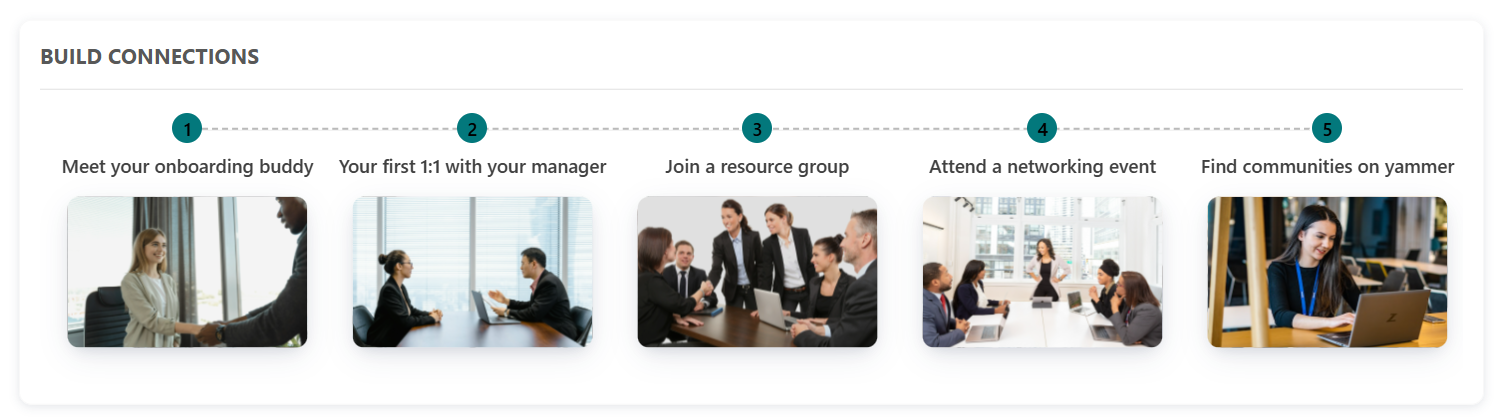
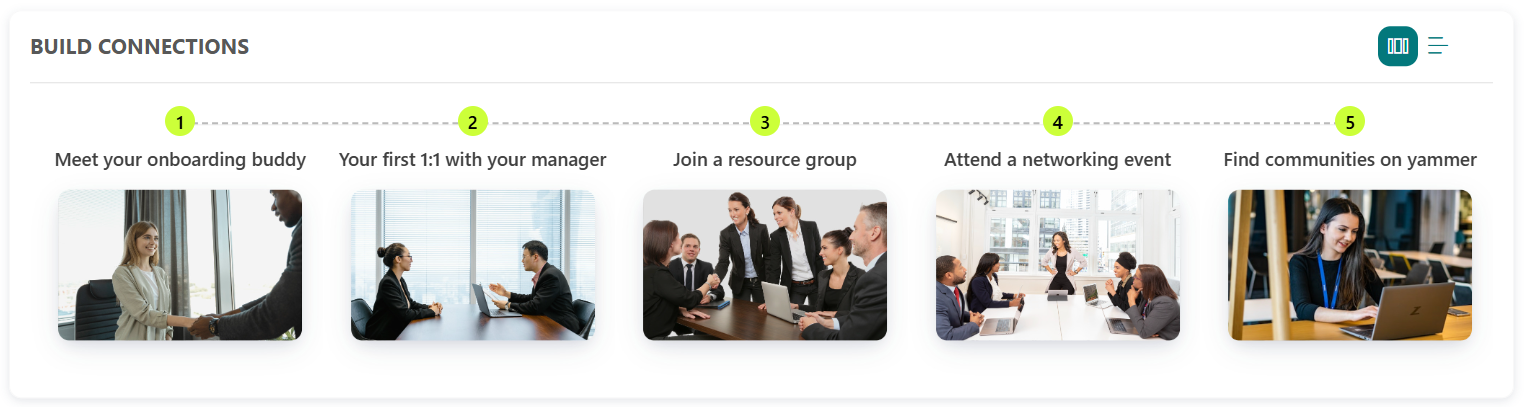
adding employee onboarding changes

diff --git a/spd-documentation/docs/employee-onboarding/installation.md b/spd-documentation/docs/employee-onboarding/installation.md
@@ -33,14 +33,16 @@ sidebar_position: 2
 
    ![](assets/adminPanel.png)
 
-2. Click the icon to open the Employee Onboarding Logo Settings Panel.
+2. Click the icon to open the Employee Onboarding extension side panel.
 
    ![](assets/adminSidebar.png)
 
 3. In the panel:
 
    - Select the **"Home Page"** template
+   - Check the checkbox of **Full Site Setup**
    - Click the **Create Page** button
+
 
      ![](assets/homepageSidebar.png)
 
@@ -52,13 +54,19 @@ sidebar_position: 2
 - `FaqOnboarding` list
 - `Training Video` library
 - `Important Documents` library
-  (_Mock items are added automatically for QuickLinks, FaqOnboarding._)
+  (_Mock items are added automatically for every list._)
 
 5. After the items are created, the site page will **refresh automatically**, and it will continue to creating page and adding webparts.
 6. Once setup is complete, a button will appear to open the newly created homepage. Click it to view the result.
 
    ![](assets/homeDialog.png)
 
+7. Click the extension icon again and repeat the procedure: select the **Home Page**, check the **Full Site Setup** checkbox, and click the **Create Page** button. This will open a dialog box with the following details:
+
+   ![](assets/existingUser.png)
+
+- Clicking **Yes** will delete the existing data from the lists and libraries in the site, and recreate them with mock data.
+- Clicking **No** will create a new page and add only the web parts, along with mock data, without affecting existing lists or libraries.
 ---
 
 ## 🔑 Activating a License Key
@@ -70,11 +78,11 @@ sidebar_position: 2
 | **Step** | **Action**                 | **Details / Notes**                                                                                                                                                                                                                                                                                           |
 | -------- | -------------------------- | ------------------------------------------------------------------------------------------------------------------------------------------------------------------------------------------------------------------------------------------------------------------------------------------------------------- |
 | 1        | Go to the app page         | Navigate to the SharePoint page where the Employee Onboarding was installed.                                                                                                                                                                                                                                  |
-| 2        | Open activation panel      | - If the trial**has expired**, you'll see an **"Activate"** button on the app — click it.![](assets/homeLicense.png) - If the trial **is still active** and you want to activate it, edit the page → open the **Web Part property panel** → click **"Activate License"**. ![](assets/homeLicenseActivate.png) |
-| 3        | Launch activation dialog   | A dialog box will appear prompting for a key.![](assets/licenseKey.png)                                                                                                                                                                                                                                       |
-| 4        | Click **Get Key**          | In the license dialog, click**Get Key** — this will take you to the payment page in a new tab.                                                                                                                                                                                                                |
+| 2        | Open activation panel      | - If the trial**has expired**, you'll see an **"Activate"** button on the app — click it.![](assets/homeLicense.png)  - If the trial **is still active** and you want to activate it, edit the page → open the **Web Part property panel** → click **"Activate License"**. ![](assets/homeLicenseActivate.png) |
+| 3        | Launch activation dialog   | A dialog box will appear prompting for a key.![](assets/licenseKey.png)                                                                                                                                                                                                                                    |
+| 4        | Click **Get Key**          | In the license dialog, click **Get Key** — this will take you to the payment page in a new tab.                                                                                                                                                                                                                |
 | 5        | Purchase the license       | Complete the payment process. Once done, you’ll receive a license key via email. Be sure to check your spam/junk folder if you don't see it.                                                                                                                                                                  |
-| 6        | Enter and activate the key | Go back to the SharePoint page, paste the license key into the dialog box, and**Activate** with license key for complete activation.                                                                                                                                                                          |
+| 6        | Enter and activate the key | Go back to the SharePoint page, paste the license key into the dialog box, and **Activate** with license key for complete activation.                                                                                                                                                                          |
 
 ✅ **You're all set! Employee Onboarding is now fully activated**
 
@@ -94,9 +102,10 @@ The following resources are provisioned upon applying the Home template:
 > Mock data is also auto-added for:
 >
 > - Quick Links
+> - Team Carousel(Current User data)
 > - Faq Onboarding
 
-> **No manual configuration required after clicking the Apply template button.**
+> **No manual configuration required after clicking the Create Page button.**
 
 ---
 
@@ -106,11 +115,11 @@ The following resources are provisioned upon applying the Home template:
 
 | **Webpart**                     | **Description**                                                                                                                                                                                                                                                                  |
 | ------------------------------- | -------------------------------------------------------------------------------------------------------------------------------------------------------------------------------------------------------------------------------------------------------------------------------- |
-| **👋 Announcement**             | -**Personalized Announcement**: Greets new users with name and time, adding a personal touch to the digital workplace.                                                                                                                                                           |
-| **🔗 Quick Links**              | - **Quick Reference Panel**: Offers shortcuts to essential onboarding and operational resources.<br /> - **Operational Essentials**: Connects users with vital tools for HR, Finance, Company Policies and more.                                                                 |
+| **👋 Announcement**             | -**Personalized Announcement**: Greets new users with name and time, adding a personal touch to the digital workplace. |
+| **🔗 Quick Links**              | - **Quick Reference Panel**: Offers shortcuts to essential onboarding and operational resources.<br /> - **Operational Essentials**: Connects users with vital tools for HR, Finance, Company Policies and more.  |
 | **💬 Welcome Message from CEO** | - **Leadership Introduction**: A message from the CEO that outlines strategic priorities and encourages unity across the organization.<br /> - **Vision-Driven Address**: Highlights company goals, cultural values, and the importance of teamwork from the CEO’s perspective.  |
-| **👥 Meet The Team**            | -**Team Overview Panel**: Presents key team members with roles and communication options to foster accessibility.<br /> - **Department Contacts**: Empowers collaboration by making it easy to identify and reach department representatives.                                    |
-| **🌐 Build Connections**        | -**Guided Social Interaction**: Helps new employees build meaningful connections through structured interactions and touchpoints.<br /> - **Scheduled Interaction Touchpoints**: Strategically placed activities that enhance familiarity with team members and company culture. |
+| **👥 Meet The Team**            | - **Team Overview Panel**: Presents key team members with roles and communication options to foster accessibility.<br /> - **Department Contacts**: Empowers collaboration by making it easy to identify and reach department representatives.   |
+| **🌐 Build Connections**        | - **Guided Social Interaction**: Helps new employees build meaningful connections through structured interactions and touchpoints.<br /> - **Scheduled Interaction Touchpoints**: Strategically placed activities that enhance familiarity with team members and company culture. |
 | **📽 Training Videos**          | - **Interactive Video Library**: Offers visual learning modules to reinforce company procedures and best practices.<br /> - **Guided Orientation Videos**: Walkthroughs that introduce employees to platforms, culture, and operational essentials.                              |
 | **🗂 Important Documents**      | - **Centralized Document Hub**:Quick access to key company documents including policies, reports, and reference files.<br /> - **Document Quick View**: Displays edit history to ensure employees are referencing the most current version.                                      |
 | **❓FAQs**                      | - **Self-Help Portal**: Easily accessible answers to frequent employee or customer inquiries.<br /> - **Smart Navigation**: Expandable accordion format lets users drill down into topics with ease.                                                                             |
@@ -135,7 +144,7 @@ Follow the steps below to uninstall the **Employee Onboarding by SharePoint Desi
 
 ### 🗃 Issue: Lists/Library Not Created
 
-**Solution**: Verify that the **"Apply template"** button was clicked after adding the **"Onboarding Employee Setup"** web part. If the lists/Library are still not created, delete the page and reapply the design.
+**Solution**: Verify that the **"Create Page"** button was clicked after adding the **"Onboarding Employee Setup"**. If the lists/Library are still not created, delete the page and reapply the design.
 
 ### 📝 Issue: Missing Demo Items
 

diff --git a/spd-documentation/docs/employee-onboarding/configuration.md b/spd-documentation/docs/employee-onboarding/configuration.md
@@ -32,7 +32,7 @@ Configuration options are grouped under intuitive sections:
 | **Welcome Text**     | Textbox      | WELCOME                | Displays a greeting with the current user's first name, above the date/time. |
 | **Show Full Name**   | Toggle       | Off                    | If enabled show full name orelse show first name.                            |
 | **Date Format**      | Dropdown     | Thursday 19 June, 2025 | Select which date format required for Announcement.                          |
-| **Time Format**      | Dropdown     | 12:50 PM               | Select which time format reqyired for Announcement.                          |
+| **Time Format**      | Dropdown     | 12:50 PM               | Select which time format required for Announcement.                          |
 | **Text Color**       | Color Picker | #000000                | Customizes the text color for Announcement.                                  |
 | **Background Color** | Color Picker | #CCFF39                | Customizes the background color for Announcement.                            |
 
@@ -63,7 +63,7 @@ Configuration options are grouped under intuitive sections:
 
 ### 📋 Details
 
-- **Essential Resources**: Provide immedia4e access to frequently used tools and documents.
+- **Essential Resources**: Provide immediate access to frequently used tools and documents.
 - **Minimalist Icons**: Use clean icons and labels for straightforward navigation.
 
 ![Quick Links](assets/QuickLinks.png)
@@ -161,6 +161,7 @@ This web part offers flexible configuration grouped into the following categorie
 - Customize the **Height** to get better UI and it can customized from 200px to 700px.
 - ToolTip has added for description content & Webpart Title too.
 - On Hover of the Person it will display the team card contains all details about profile.
+- On clicking the **Read More** button on the UI, a dialog box will open at the center of the page displaying the complete content in detail.
 
 ---
 
@@ -216,6 +217,7 @@ For the **Meet The Team** webpart, create a list with the following columns.
 - Similarly, if the **Icon** column is filled, that icon will be shown in the UI. If left blank, the profile picture will be automatically retrieved from the Team Person's user profile.
 - The **Name** and **Profile Picture** will be automatically retrieved based on the selected Team Person.
 - On Hover of the Person it will display the team card contains all details about profile.
+- Initial mock data has been added for the current user.
 
 ---
 
@@ -265,8 +267,9 @@ For the **Build Connections** webpart, create a list with the following columns.
 
 | Field                              | Type         | Default / Example | Description                                          |
 | ---------------------------------- | ------------ | ----------------- | ---------------------------------------------------- |
+| **Layout Type**                    | Dropdown     | Carousel          | Controls how content is visually displayed.          |
 | **Items to display**               | Slider       | 5                 | Customize the items to display in build connections. |
-| **Background Color of the Circle** | Color Picker | #CCFF39           | Customize the background color of the circle.        |
+| **Background Color of the Circle** | Color Picker | #CCFF39         | Customize the background color of the circle.        |
 | **Text Color of the Circle**       | Color Picker | #0000000          | Customize the Text Color of the circle.              |
 
 ---
@@ -292,6 +295,16 @@ For the **Build Connections** webpart, create a list with the following columns.
 ![TrainingVideo](assets/TrainingVideo.png)
 
 ---
+
+### List Config
+
+For the **Training Video** webpart, create a library with the following columns.
+
+#### 📋 Required Columns
+
+| 🏷 Column Name (Case Sensitive) | 🔣 Column Type | Column Value                    |
+| ------------------------------- | -------------- | ------------------------------- |
+| **TargetWindow**                | Choice         | Open in New Window, Open in Same Window (Provide Specified Choice alone) |
 
 ### 🛠 Training Videos Web Part – Property Pane Configuration
 
@@ -352,6 +365,17 @@ Configure the Training Videos web part using the following options:
 ![Documents](assets/Documents.png)
 
 ---
+
+
+### List Config
+
+For the **Important Documents** webpart, create a library with the following columns.
+
+#### 📋 Required Columns
+
+| 🏷 Column Name (Case Sensitive) | 🔣 Column Type | Column Value                    |
+| ------------------------------- | -------------- | ------------------------------- |
+| **TargetWindow**                | Choice         | Open in New Window, Open in Same Window (Provide Specified Choice alone) |
 
 ### 🛠 Important Documents Web Part – Property Pane Configuration
 

diff --git a/spd-documentation/docs/intro.md b/spd-documentation/docs/intro.md
@@ -43,7 +43,7 @@ import DocCard from "@theme/DocCard";
   }} />
 </article>
 <article className="col col--6 margin-bottom--lg">
-  <DocCard item=={{
+  <DocCard item={{
     "type": "link",
     "label": "Free Template",
     "icon":"arrow",
